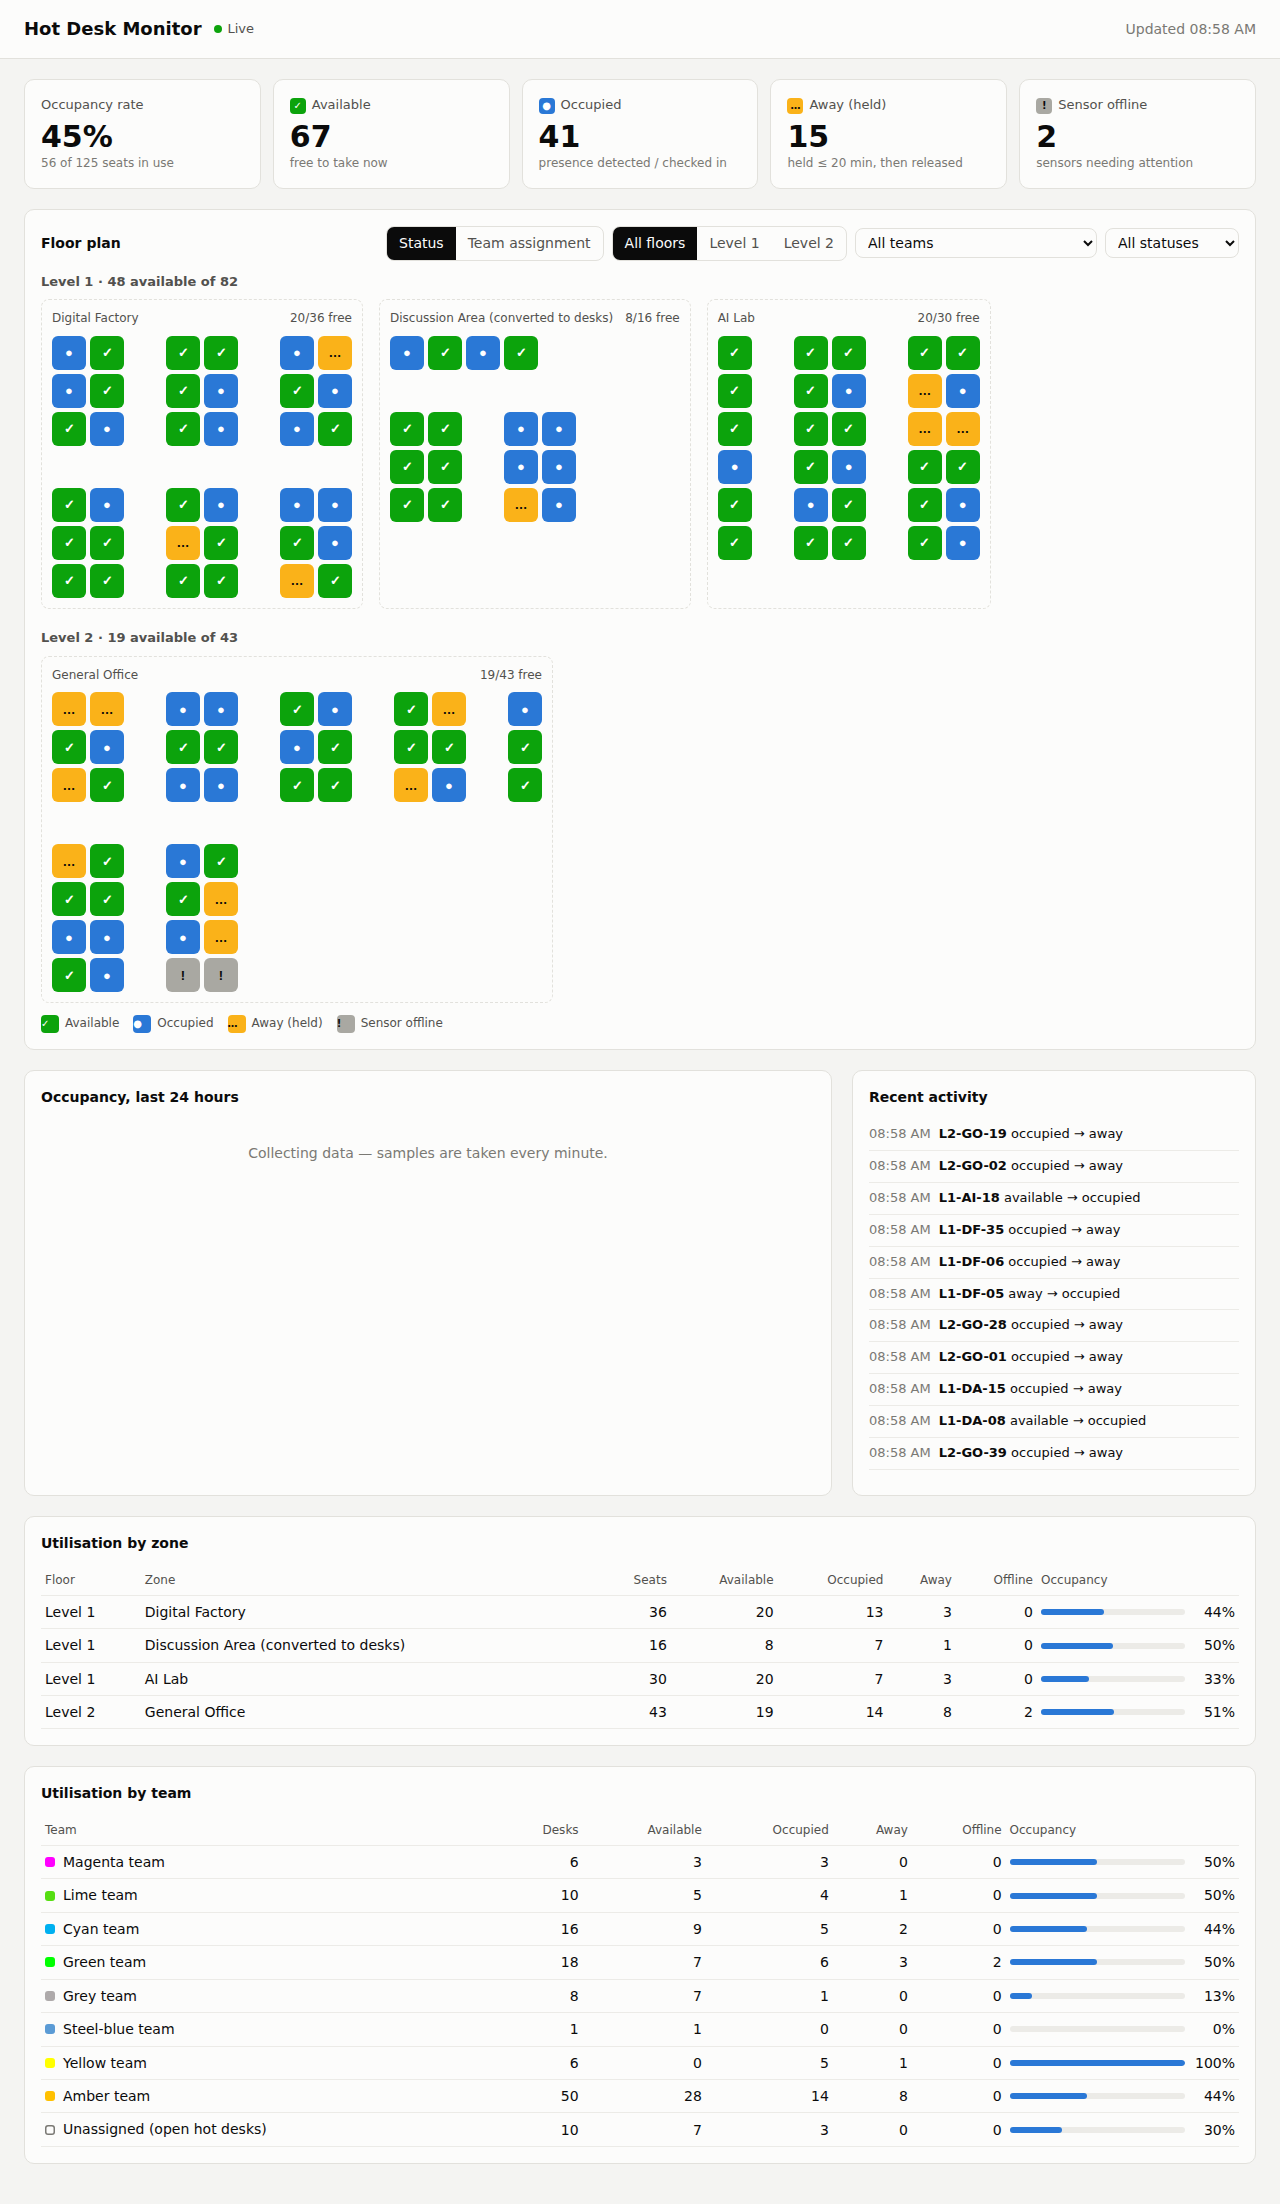
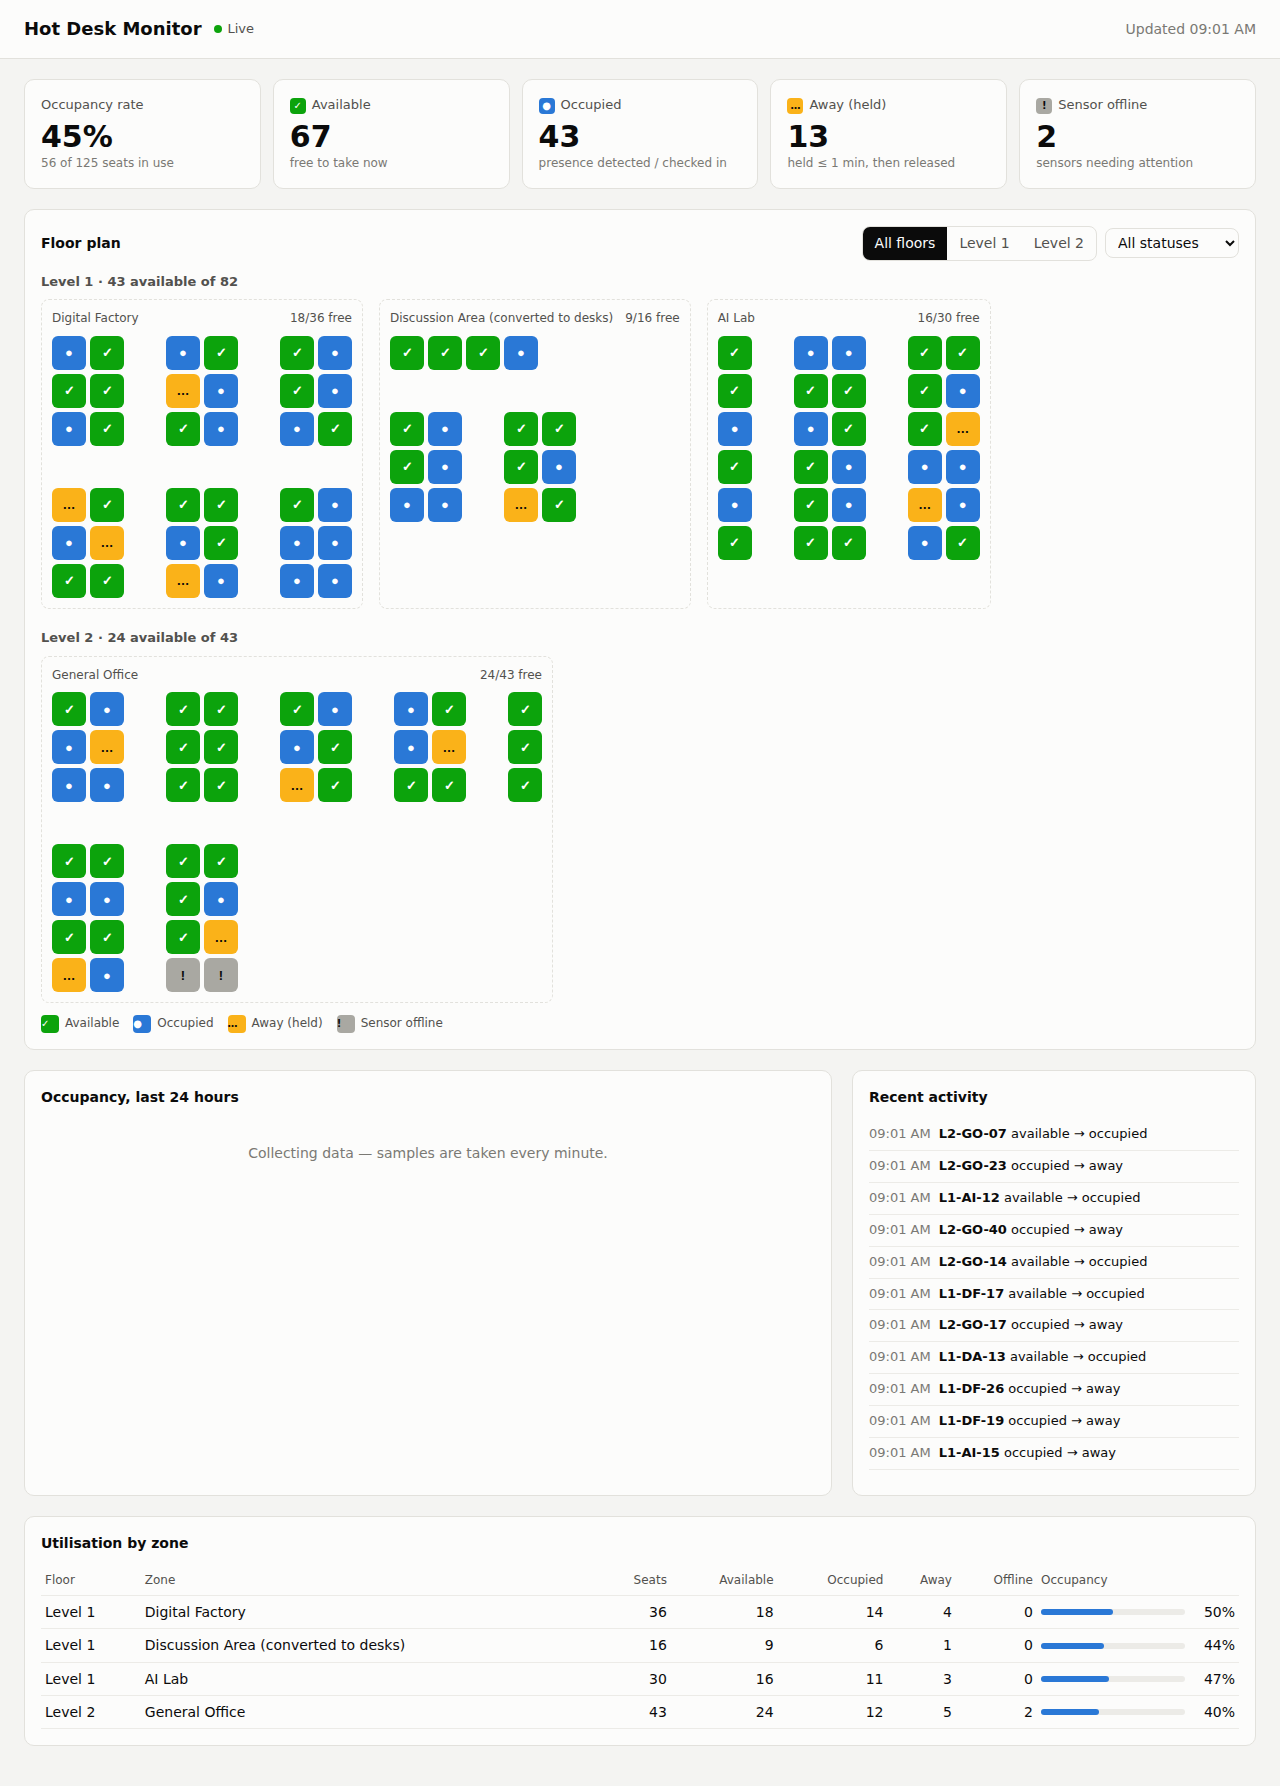
Treat all desks as open hot desks; drop deck colour blocks
The coloured blocks in the seat assignment deck are not team
assignments, so the layout no longer maps desks to teams. The
dashboard hides the team view, team filter and team table when a
layout defines no teams; team support stays available as an option.

Claude-Session: https://claude.ai/code/session_01R5PsyFbuq2Dda7FuaF5nhy

diff --git a/public/index.html b/public/index.html
@@ -55,6 +55,7 @@
     --line: #3987e5;
   }
   * { box-sizing: border-box; }
+  [hidden] { display: none !important; }
   body {
     margin: 0; background: var(--surface-0); color: var(--text-primary);
     font: 14px/1.45 system-ui, -apple-system, "Segoe UI", sans-serif;
@@ -176,7 +177,7 @@
     <div style="overflow-x:auto"><table id="zones"></table></div>
   </section>
 
-  <section class="card">
+  <section class="card" id="teamSection">
     <h2>Utilisation by team</h2>
     <div style="overflow-x:auto"><table id="teams"></table></div>
   </section>
@@ -280,14 +281,15 @@ function seatButton(s) {
     if (color) { cls = ''; style = `background:${color};color:${inkFor(color)};`; }
     else cls = 'unassigned';
   }
-  const team = s.teamName ? `, ${esc(s.teamName)}` : ', unassigned';
+  const team = !hasTeams() ? '' : s.teamName ? `, ${esc(s.teamName)}` : ', unassigned';
   return `<button type="button" class="seat ${cls}${dim}" data-seat="${esc(s.id)}"
     style="${style}grid-column:${s.col + 1};grid-row:${s.row + 1}"
     aria-label="${esc(s.id)}: ${STATUS[s.status].label}${team}">${STATUS[s.status].glyph}</button>`;
 }
 
 function seatTip(s) {
-  const lines = [`<b>${esc(s.id)} — ${STATUS[s.status].label}</b>`, s.teamName ? `Assigned to: ${esc(s.teamName)}` : 'Unassigned (open hot desk)'];
+  const lines = [`<b>${esc(s.id)} — ${STATUS[s.status].label}</b>`];
+  if (hasTeams()) lines.push(s.teamName ? `Assigned to: ${esc(s.teamName)}` : 'Unassigned (open hot desk)');
   if (s.checkedInBy) lines.push(`Checked in: ${esc(s.checkedInBy)} at ${fmtTime(s.checkedInAt)}`);
   if (s.hasSensor) lines.push(`Sensor: ${s.sensorOnline ? (s.presence ? 'presence detected' : 'no presence') : 'offline'}`);
   else lines.push('No sensor — QR check-in only');
@@ -306,7 +308,13 @@ function renderLegend() {
   $('legend').innerHTML = teams + `<span class="muted">Symbol shows live status: ${Object.values(STATUS).map((v) => `${v.glyph} ${v.label}`).join(' · ')}</span>`;
 }
 
+const hasTeams = () => (state.summary?.teams ?? []).some((t) => t.id !== null);
+
 function renderTeamFilter() {
+  // Team features only make sense when the building layout assigns desks to teams.
+  const show = hasTeams();
+  for (const id of ['viewMode', 'teamFilter', 'teamSection']) $(id).hidden = !show;
+  if (!show) { state.mode = 'status'; state.team = ''; }
   const sel = $('teamFilter');
   const opts = (state.summary?.teams ?? []).map((t) => `<option value="${esc(teamKey(t.id))}">${esc(t.name)}</option>`).join('');
   sel.innerHTML = `<option value="">All teams</option>${opts}`;

diff --git a/public/checkin.html b/public/checkin.html
@@ -56,7 +56,7 @@ try { $('user').value = localStorage.getItem('hotdesk.user') || ''; } catch {}
 
 function render(s) {
   $('title').textContent = `Desk ${s.id}`;
-  $('where').textContent = `${s.floorName} · ${s.zoneName} · ${s.teamName ?? 'Open hot desk'}`;
+  $('where').textContent = `${[s.floorName, s.zoneName, s.teamName].filter(Boolean).join(' · ')}`;
   $('status').textContent = LABEL[s.status];
   $('dot').style.background = `var(--${s.status})`;
   $('hint').textContent = s.hasSensor

diff --git a/README.md b/README.md
@@ -57,18 +57,15 @@ in the QR sticker on each desk.
 | Level 1 | AI Lab | 30 | 6 single desks along the stair wall + 2 pods of 6×2 |
 | Level 2 | General Office | 43 | 5 pods in the top section (the last one single-sided) + 2 pods of 4×2 |
 
-Each zone is an ASCII `map`, one string per row of desks: a space is no desk (aisle or pod gap), `.` is
-an unassigned hot desk, and a letter assigns the desk to a team defined under `"teams"`. The team
-colours match the coloured blocks in the deck. The deck has no legend, so the teams are named by
-colour (e.g. "Amber team"). **Rename them in `building.json` to the real team names.**
+Each zone is an ASCII `map`, one string per row of desks: `.` is a desk and a space is no desk (an aisle or
+the gap between pods). All desks are open hot desks. The coloured blocks in the deck are not used.
 
 ```json
 "map": [
-  "mm lc gg",
-  "mm lc gg",
-  "mm ll gg",
+  ".. .. ..",
+  ".. .. ..",
   "",
-  "rr cc ll"
+  ".. .. .."
 ]
 ```
 
@@ -76,12 +73,12 @@ Desk IDs are `<floor>-<zone>-<nn>`, numbered in reading order (left to right, to
 `L1-DF-01`). Sensor IDs are `S-<deskId>`. For QR-only areas, set `"sensors": false` on a zone or list
 desk IDs in `"sensorless"`. A zone can also use plain `"rows"`/`"cols"` instead of a `map`.
 
-The dashboard's **Team assignment** view colours desks by team, the same way as the deck. The symbol on
-each desk still shows its live status. A team filter and a per-team utilisation table show how well
-each team's allocated desks are used.
+Optionally, desks can be assigned to teams. Define `"teams": { "a": { "name": "...", "color": "#..." } }`
+and use the team's letter in the map instead of `.`. When a layout has teams, the dashboard adds a
+**Team assignment** view, a team filter and a utilisation-by-team table. Otherwise these are hidden.
 
-The latest revision of the deck blanks out the Level 2 UAT Stations block, so it is no longer part of the
-layout. Level 2 now has only the General Office.
+The deck's blue arrows and "OSN" label are ignored. The latest revision of the deck blanks out the Level 2
+UAT Stations block, so it is no longer part of the layout. Level 2 now has only the General Office.
 
 ## Sending sensor data
 

diff --git a/docs/DESIGN.md b/docs/DESIGN.md
@@ -111,8 +111,8 @@ Other rules:
 - **Occupancy trend** over the last 24 h.
 - **Utilisation by zone** table, which helps right-size the number of desks per team.
 - **Recent activity** feed (check-ins, checkouts, auto-releases, status changes).
-- **Team assignment** view and **utilisation by team**: desks are allocated to teams in blocks (see the
-  seat assignment deck), so admins can see whether a team's block is under- or over-used and rebalance it.
+- Optional **team assignment** view and **utilisation by team**: shown only if the layout assigns desks to
+  teams, so admins can see whether a team's block is under- or over-used. The current layout has no teams.
 
 ## 5. API
 
